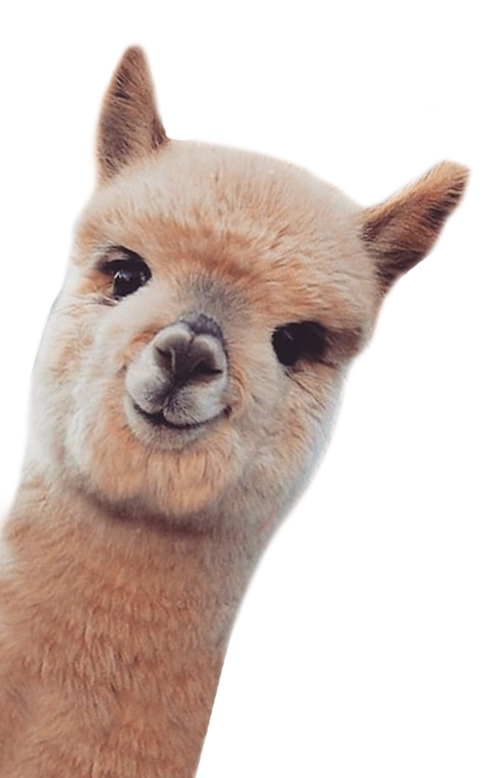
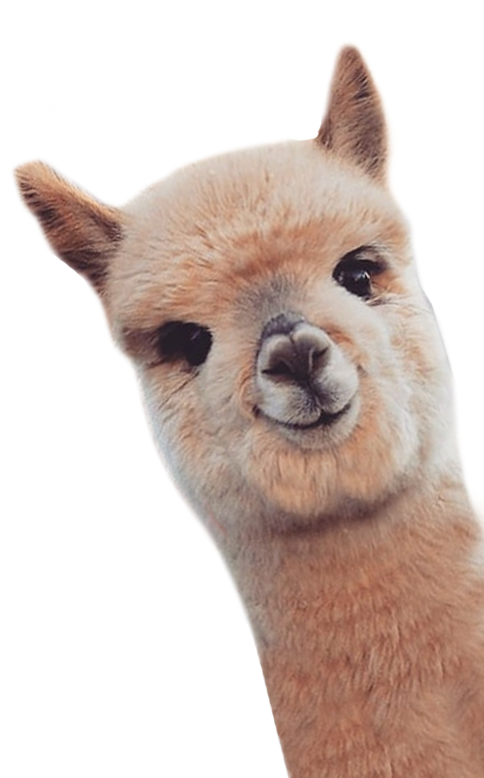
style update, removes llama from backend

diff --git a/app/assets/stylesheets/reviews.scss b/app/assets/stylesheets/reviews.scss
@@ -70,6 +70,13 @@ h1.detail-accent::before {
     width: 5vw;
     height: 5vw;
 }
+.index-page-header {
+        background-image: image-url('purple-paca.png');
+        background-repeat: no-repeat;
+        background-position: bottom right;
+        background-size: contain;
+
+}
 h1.detail-accent::after {
     content: '';
     background-image: image-url('rebrand-detail.png');
@@ -127,6 +134,7 @@ h3.detail-accent::after {
     background-size:  contain;
     background-repeat:  no-repeat;
 }
+
 .double-accent-padding { padding: 50px; }
 .verified { width: 15px; margin-right: 2px; display: inline-block !important; }
 .review-wrapper { width: 80%; min-width: 300px; margin:20px auto; }
@@ -435,9 +443,25 @@ $checked-color: #f04e4c;
   margin-right: 20px;
   min-width: fit-content;
 }
-#pending-reviews {
+#pending-reviews, .all-products-view  {
   border-bottom: 2px solid #a0dbe3;
 }
+.btn { 
+padding: 0px 10px;
+border-radius: 4px;
+border: 1px solid;
+cursor: pointer;
+}
+.edit-btn { border-color: #66cad8}
+.delete-btn { border-color: #be1f24}
+.archive-btn {
+    border-color: #f8b6bd;
+    background-color: transparent;
+    font-size: 12pt;
+    font-family: 'Lexend';
+    color: #2d2b26;
+}
+.archive-form { display: inline-block; margin-left: 5px;}
 .display-fav {
     font-weight: lighter;
     font-size: 10pt;
